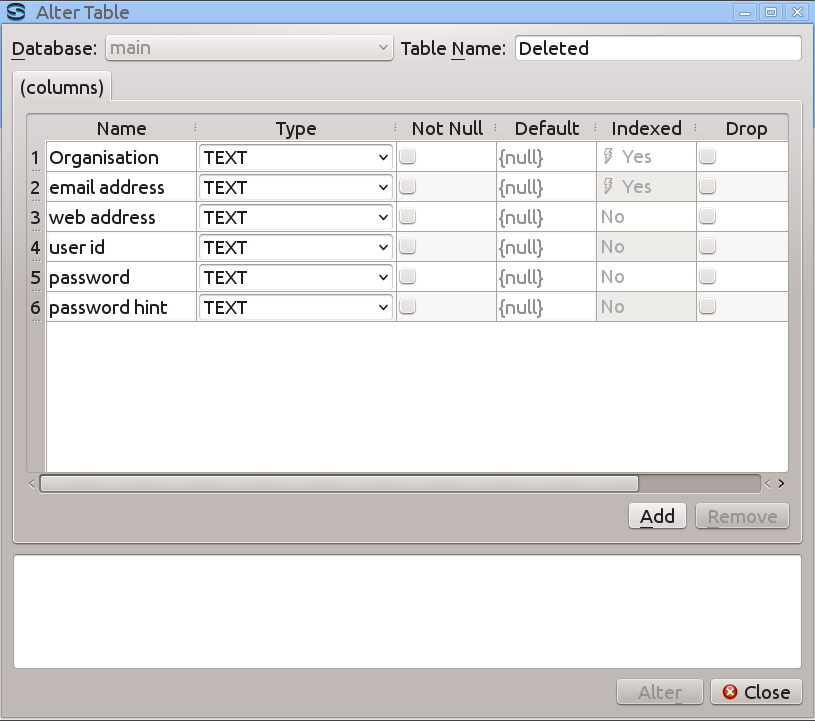
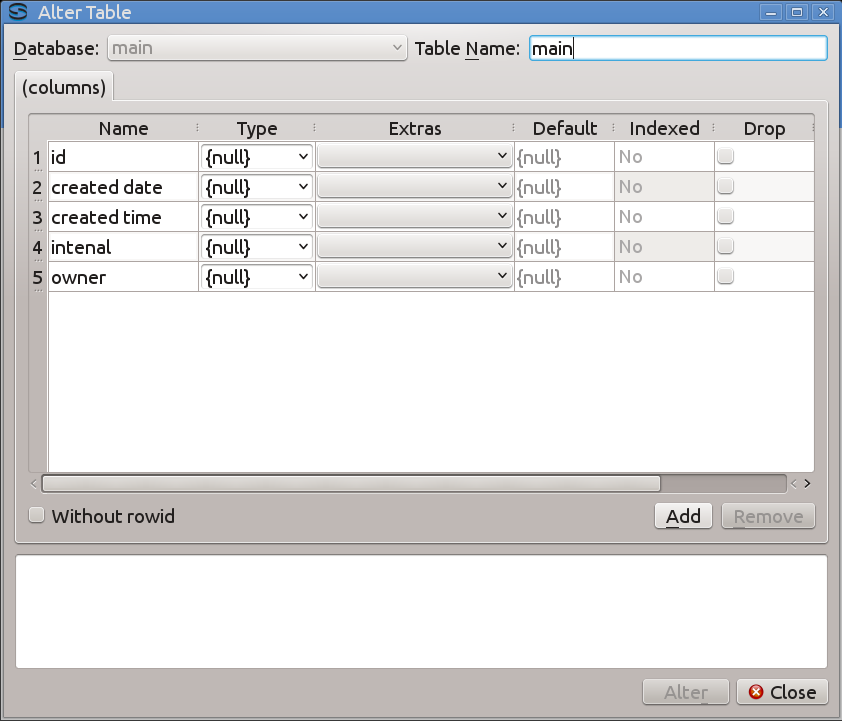
Allow creation and altering of WITHOUT ROWID tables

diff --git a/Sqliteman/sqliteman/doc/en/ch07s02.html b/Sqliteman/sqliteman/doc/en/ch07s02.html
@@ -1,7 +1,62 @@
-<html><head><meta http-equiv="Content-Type" content="text/html; charset=UTF-8"><title>Create Table</title><link rel="stylesheet" href="kde-default.css" type="text/css"><meta name="generator" content="DocBook XSL Stylesheets V1.67.2"><meta name="keywords" content="Sqliteman, SQL, Sqlite, development, database"><link rel="start" href="index.html" title="The Sqliteman Handbook"><link rel="up" href="ch07.html" title="Chapter 7. Features and Dialogs"><link rel="prev" href="ch07s01.html" title="Auto Commit and Transaction Pending modes"><link rel="next" href="ch07s03.html" title="Alter Table"></head><body bgcolor="white" text="black" link="#0000FF" vlink="#840084" alink="#0000FF"><div class="navheader"><table width="100%" summary="Navigation header"><tr><th colspan="3" align="center">Create Table</th></tr><tr><td width="20%" align="left"><a accesskey="p" href="ch07s01.html">Prev</a> </td><th width="60%" align="center">Auto Commit and Transaction Pending modes</th><td width="20%" align="right"> <a accesskey="n" href="ch07s03.html">Next</a></td></tr></table><hr></div><div class="sect1" lang="en"><div class="titlepage"><div><div><h2 class="title" style="clear: both"><a name="createTable"></a>Create Table</h2></div></div></div><p>The <a href="ch07s02.html#id2015101">(columns)</a>, <a href="ch07s02.html#id2015102">AS query</a>, and <a href="ch07s02.html#id2015103">EDIT SQL</a> tabs allow you to create a table in various ways.</p><p>
-          </p><div class="screenshot"><div class="mediaobject"><img src="createTable.png" alt="Create table dialog"></div></div><p>
-          </p><div class="variablelist"><dl><dt><span class="term">Database</span></dt><dd><p>A combo box with databases attached. Select one and the table will be created in this schema.</p></dd><dt><span class="term">Table Name</span></dt><dd><p>Name of new table. It must be nonempty.</p></dd><dt><span class="term"><a name="id2015101"></a>(columns) tab</span></dt><dd><p>Use "Add" and "Remove" buttons to create columns for this table. Every column must have a table-unique name, chosen data type (prepared combo box), optional extra constraint (nothing, NOT NULL, PRIMARY KEY, PRIMARY KEY NOT NULL, AUTOINCREMENT [which implies PRIMARY KEY], or AUTOINCREMENT NOT NULL), and optional DEFAULT value. If you want to use your own non-standard data type, you can type it into the combo box. Default values must be supplied as they would be in a CREATE TABLE statement: expressions must be enclosed in (), text literals which don't look like identifiers or which match reserved words must be quoted. Numbers do not need to be quoted, and will be treated as text literals if they are.
-          </p><div class="important" style="margin-left: 0.5in; margin-right: 0.5in;"><h3 class="title">Important</h3><p>Consult Sqlite documentation for data type, NOT NULL, and DEFAULT handling specials, please.</p></div></dd><dt><span class="term"><a name="id2015102"></a>AS query tab</span></dt><dd><p>This opens the query builder where you can create a table using a CREATE TABLE name AS SELECT ... statement.</p></dd><dt><span class="term"><a name="id2015103"></a>Edit SQL tab</span></dt><dd><p>You can write any SQL CREATE TABLE statement here. The first time you open this tab, it will make a CREATE TABLE statement from the information in the previously open tab. Every subsequent time you open this tab you will be asked if you want to keep the existing SQL or make it from the information in the previously open tab again.</p></dd><dt><span class="term">Create</span></dt><dd><p>Press this button to create the table. It is disabled when the <a href="ch07s02.html#id2015101">(columns)</a> tab is selected unless the new table and all columns have nonempty names, and disabled when the <a href="ch07s02.html#id2015102">AS query</a> tab is selected unless the new table has a nonempty name. The result of this operation is shown in the text area below, which will expand if it needs to contain a long error message.</p></dd></dl></div></div><div class="navfooter"><hr><table width="100%" summary="Navigation footer"><tr>
+<html><head>
+	<meta http-equiv="Content-Type" content="text/html; charset=UTF-8">
+	<title>Create Table</title>
+	<link rel="stylesheet" href="kde-default.css" type="text/css">
+	<meta name="generator" content="DocBook XSL Stylesheets V1.67.2">
+	<meta name="keywords" content="Sqliteman, SQL, Sqlite, development, database">
+	<link rel="start" href="index.html" title="The Sqliteman Handbook">
+	<link rel="up" href="ch07.html" title="Chapter 7. Features and Dialogs">
+	<link rel="prev" href="ch07s01.html" title="Auto Commit and Transaction Pending modes">
+	<link rel="next" href="ch07s03.html" title="Alter Table">
+</head>
+<body bgcolor="white" text="black" link="#0000FF" vlink="#840084" alink="#0000FF">
+	<div class="navheader">
+		<table width="100%" summary="Navigation header">
+			<tr><th colspan="3" align="center">Create Table</th></tr>
+			<tr><td width="20%" align="left">
+					<a accesskey="p" href="ch07s01.html">Prev</a> </td>
+					<th width="60%" align="center">Auto Commit and Transaction Pending modes</th>
+				<td width="20%" align="right"> <a accesskey="n" href="ch07s03.html">Next</a></td></tr>
+		</table>
+	<hr></div>
+	<div class="sect1" lang="en">
+		<div class="titlepage">
+			<div>
+				<h2 class="title" style="clear: both"><a name="createTable"></a>Create Table</h2>
+			</div>
+		</div>
+		<p>The <a href="ch07s02.html#id2015101">(columns)</a>, <a href="ch07s02.html#id2015102">AS query</a>, and <a href="ch07s02.html#id2015103">EDIT SQL</a> tabs allow you to create a table in various ways.</p>
+		<p></p><div class="screenshot">
+			<div class="mediaobject">
+				<img src="createTable.png" alt="Create table dialog">
+				</div>
+			</div>
+		<p></p>
+		<div class="variablelist">
+			<dl><dt><span class="term">Database</span></dt>
+			<dd>
+				<p>A combo box with databases attached. Select one and the table will be created in this schema.</p>
+			</dd>
+			<dt><span class="term"></span></dt>
+			<dd><p>Name of new table. It must be nonempty.</p></dd>
+			<dt><span class="term"><a name="id2015101">(columns) tab</a></span></dt>
+			<dd>
+				<p>Use "Add" and "Remove" buttons to create columns for this table. Every column must have a table-unique name, chosen data type (prepared combo box), optional extra constraint (nothing, NOT NULL, PRIMARY KEY [implies NOT NULL], or AUTOINCREMENT [implies PRIMARY KEY and NOT NULL]), and optional DEFAULT value. If you want to use your own non-standard data type, you can type it into the combo box. Default values must be supplied as they would be in a CREATE TABLE statement: expressions must be enclosed in (), text literals which don't look like identifiers or which match reserved words must be quoted. Numbers do not need to be quoted, and will be treated as text literals if they are.</p>
+				<div class="important" style="margin-left: 0.5in; margin-right: 0.5in;"><h3 class="title">Important</h3>
+					<p>Consult Sqlite documentation for data type, NOT NULL, and DEFAULT handling specials, please.</p>
+				</div>
+			</dd>
+			<dt><span class="term"><a name="id2015102">AS query tab</a></span></dt>
+			<dd>
+				<p>This opens the query builder where you can create a table using a CREATE TABLE name AS SELECT ... statement.</p>
+			</dd>
+<dt><span class="term"><a name="id2015103">Edit SQL tab</a></span></dt>
+<dd><p>You can write any SQL CREATE TABLE statement here. The first time you open this tab, it will make a CREATE TABLE statement from the information in the previously open tab. Every subsequent time you open this tab you will be asked if you want to keep the existing SQL or make it from the information in the previously open tab again.</p></dd>
+<dt><span class="term">Without rowid</span></dt><dd></dd>
+<dd><p>Check this box to create a WITHOUT ROWID table. It must have at least one PRIMARY KEY and no AUTOINCREMENT.</p></dd>
+<dt><span class="term">Create</span></dt>
+<dd><p>Press this button to create the table. When the <a href="ch07s02.html#id2015101">(columns)</a> tab is selected, the Create button is only enabled when the new table name is nonempty, and all column names are nonempty, and if there is an AUTOINCREMENT column its type is INTEGER and no other column is a PRIMARY KEY, and if Without rowid is checked there is at least one PRIMARY KEY column. When the <a href="ch07s02.html#id2015102">AS query</a> tab is selected, the Create button is only enabled if the new table has a nonempty name. The result of this operation is shown in the text area below, which will expand if it needs to contain a long error message.</p></dd></dl></div></div>
+<div class="navfooter"><hr><table width="100%" summary="Navigation footer"><tr>
           <td width="40%" align="left"><a accesskey="p" href="ch07s01.html">Prev</a> </td>
           <td width="20%" align="center"><a accesskey="u" href="ch07.html">Up</a>
           </td><td width="40%" align="right"> <a accesskey="n" href="ch07s03.html">Next</a></td></tr>

diff --git a/Sqliteman/sqliteman/doc/en/ch08.html b/Sqliteman/sqliteman/doc/en/ch08.html
@@ -7,5 +7,5 @@
 <tr class="question"><td align="left" valign="top"><a name="id2528597"></a><a name="id2528600"></a><b>1.</b></td><td align="left" valign="top"><p>I'm getting: Query Error: SQL logic error or missing database</p></td></tr><tr class="answer"><td align="left" valign="top"><b></b></td><td align="left" valign="top"><p>You can get this error on some INSERT statement in the database with triggers. It's a bug in some versions of the Qt library toolkit. It should be fixed in the Qt 4.2.3 and later.</p></td></tr>
 <tr class="question"><td align="left" valign="top"><a name="id2528615"></a><a name="id2528617"></a><b>2.</b></td><td align="left" valign="top"><p>I cannot update a value in the data grid</p></td></tr><tr class="answer"><td align="left" valign="top"><b></b></td><td align="left" valign="top"><p>You cannot edit the data in a view or in a read-only database. If editing fails in a table in a writeable database, this may be a problem with older versions of the Qt library which send an empty string ('') to the database for fields that have a value of NULL and SQLite doesn't seem to like this. This has been fixed some time before Qt 4.8.6.</p></td></tr>
 <tr class="question"><td align="left" valign="top"><a name="id2528777"></a></a><b>3.</b></td><td align="left" valign="top"><p>Editing or deleting rows changes or deletes other rows</p></td></tr><tr class="answer"><td align="left" valign="top"><b></b></td><td align="left" valign="top"><p>This problem occurs if you put two or more rows with the exact same field contents into the database. The Qt library gets confused by this. <a href="http://bugreports.qt.io/browse/QTBUG-48448">The bug has been reported.</a></p></td></tr>
-<tr class="question"><td align="left" valign="top"><a name="id2528888"></a></a><b>4.</b></td><td align="left" valign="top"><p>I'm getting: Cannot recreate original index/trigger</p></td></tr><tr class="answer"><td align="left" valign="top"><b></b></td><td align="left" valign="top"><p>This problem occurs when altering a table if an index or a trigger references a column which has been renamed or deleted. It is a known bug in sqliteman but it isn't easy to fix: it may get fixed some time.</p></td></tr>
+<tr class="question"><td align="left" valign="top"><a name="id2528888"></a></a><b>4.</b></td><td align="left" valign="top"><p>I'm getting: Cannot recreate original index/trigger</p></td></tr><tr class="answer"><td align="left" valign="top"><b></b></td><td align="left" valign="top"><p>This problem occurs when altering a table if an index or a trigger references a column which has been renamed or deleted. It is a known bug in Sqliteman but it isn't easy to fix: it may get fixed some time.</p></td></tr>
 <tr class="question"><td align="left" valign="top"><a name="id2528999"></a></a><b>5.</b></td><td align="left" valign="top"><p>I'm getting: Error: No Fields to update</p></td></tr><tr class="answer"><td align="left" valign="top"><b></b></td><td align="left" valign="top"><p>This problem occurs if all fields have defaults which are CURRENT_TIMESTAMP, CURRENT_DATE, CURRENT_TIME, or expressions. The Qt library can't insert a record with this structure. For the workaround see <a href="ch07s12.html#insert">here</a>. <a href="http://bugreports.qt.io/browse/QTBUG-48447">This has been reported as a bug,</a> but Qt say it isn't.</p></td></tbody></table></div></div></div><div class="navfooter"><hr><table width="100%" summary="Navigation footer"><tr><td width="40%" align="left"><a accesskey="p" href="ch07s13.html">Prev</a> </td><td width="20%" align="center"> </td><td width="40%" align="right"> <a accesskey="n" href="ch09.html">Next</a></td></tr><tr><td width="40%" align="left" valign="top">Export Data </td><td width="20%" align="center"><a accesskey="h" href="index.html">Contents</a></td><td width="40%" align="right" valign="top"> Chapter 9. Credits and License</td></tr></table></div></body></html>

diff --git a/Sqliteman/sqliteman/doc/en/ch07s09.html b/Sqliteman/sqliteman/doc/en/ch07s09.html
@@ -1,3 +1,3 @@
 <html><head><meta http-equiv="Content-Type" content="text/html; charset=UTF-8"><title>Attached Databases</title><link rel="stylesheet" href="kde-default.css" type="text/css"><meta name="generator" content="DocBook XSL Stylesheets V1.67.2"><meta name="keywords" content="Sqliteman, SQL, Sqlite, development, database"><link rel="start" href="index.html" title="The Sqliteman Handbook"><link rel="up" href="ch07.html" title="Chapter 7. Features and Dialogs"><link rel="prev" href="ch07s08.html" title="Constraint Triggers"><link rel="next" href="ch07s10.html" title="Schema Browser"></head><body bgcolor="white" text="black" link="#0000FF" vlink="#840084" alink="#0000FF"><div class="navheader"><table width="100%" summary="Navigation header"><tr><th colspan="3" align="center">Attached Databases</th></tr><tr><td width="20%" align="left"><a accesskey="p" href="ch07s08.html">Prev</a> </td><th width="60%" align="center">Chapter 7. Features and Dialogs</th><td width="20%" align="right"> <a accesskey="n" href="ch07s10.html">Next</a></td></tr></table><hr></div><div class="sect1" lang="en"><div class="titlepage"><div><div><h2 class="title" style="clear: both"><a name="attachDatabase"></a>Attached Databases</h2></div></div></div><p>You can add and remove another database files to the current database connection.
     Every attached database is identified by its unique name (prefix). The names 'main' and 'temp' refer to the main database and the database used for temporary tables. These cannot be detached.
-    You should access database objects with full prefixed naming convention:</p><p><span><strong class="command">SELECT * FROM newdb.foo_table;</strong></span></p><p>It is possible to open the same database with two different names: sqliteman cannot detect this because it cannot determine whether two different file names refer to the same file. If this occurs, sqliteman may behave unpredictably.</p><div class="important" style="margin-left: 0.5in; margin-right: 0.5in;"><h3 class="title">Important</h3><p>Consult <a href="http://www.sqlite.org/lang_attach.html" target="_top">Sqlite documentation</a>.</p></div></div><div class="navfooter"><hr><table width="100%" summary="Navigation footer"><tr><td width="40%" align="left"><a accesskey="p" href="ch07s08.html">Prev</a> </td><td width="20%" align="center"><a accesskey="u" href="ch07.html">Up</a></td><td width="40%" align="right"> <a accesskey="n" href="ch07s10.html">Next</a></td></tr><tr><td width="40%" align="left" valign="top">Constraint Triggers </td><td width="20%" align="center"><a accesskey="h" href="index.html">Contents</a></td><td width="40%" align="right" valign="top"> Schema Browser</td></tr></table></div></body></html>
+    You should access database objects with full prefixed naming convention:</p><p><span><strong class="command">SELECT * FROM newdb.foo_table;</strong></span></p><p>It is possible to open the same database with two different names: Sqliteman cannot detect this because it cannot determine whether two different file names refer to the same file. If this occurs, Sqliteman may behave unpredictably.</p><div class="important" style="margin-left: 0.5in; margin-right: 0.5in;"><h3 class="title">Important</h3><p>Consult <a href="http://www.sqlite.org/lang_attach.html" target="_top">Sqlite documentation</a>.</p></div></div><div class="navfooter"><hr><table width="100%" summary="Navigation footer"><tr><td width="40%" align="left"><a accesskey="p" href="ch07s08.html">Prev</a> </td><td width="20%" align="center"><a accesskey="u" href="ch07.html">Up</a></td><td width="40%" align="right"> <a accesskey="n" href="ch07s10.html">Next</a></td></tr><tr><td width="40%" align="left" valign="top">Constraint Triggers </td><td width="20%" align="center"><a accesskey="h" href="index.html">Contents</a></td><td width="40%" align="right" valign="top"> Schema Browser</td></tr></table></div></body></html>

diff --git a/Sqliteman/sqliteman/doc/en/ch07s03.html b/Sqliteman/sqliteman/doc/en/ch07s03.html
@@ -4,7 +4,7 @@
     <span class="application">Sqliteman</span> provides a more general ALTER TABLE by creating a new table, copying the data, and dropping the old table. If necessary the old table is renamed out of the way first. However <span class="application">Sqliteman</span> has limited understanding of the many possible table structures. In this version some information is lost if alterations to a table do anything other than renaming it. In that case columns can be added or deleted, and column types, default values, NOT NULL constraints, and PRIMARY KEY and AUTOINCREMENT constraints can be modified or preserved. Indexes and triggers are preserved (but cannot be modified) as long as the columns to which they refer are not deleted or renamed. Constraint names, conflict clauses, foreign key clauses, DESC tags, WITHOUT ROWID conditions, UNIQUE constraints, CHECK constraints, and COLLATE constraints are all lost. These can be preserved by manually renaming the old table, doing "Describe Table", copying and pasting the description into the SQL editor, modifying it as required and creating a new table, copying the data, and then dropping the old table.</p><p>In any case views and foreign key constraints referring to the altered table will be left dangling if the table is renamed or the columns referred to are renamed or deleted. This is behaviour of sqlite itself and not specific to <span class="application">Sqliteman</span>.
     </p></div><p>In this dialog you can <span class="guibutton">Add</span> and <span class="guibutton">Remove</span> table
   columns and set the options for new ones.</p><p>
-  The Alter button is enabled only if at least something has changed from the original table definition, and the table name is nonempty, and all column names are nonempty, and if there is an AUTOINCREMENT column, its type is INTEGER and no other column is a PRIMARY KEY.</p><p>
+  The Alter button is enabled only when at least something has changed from the original table definition, and the table name is nonempty, and all column names are nonempty, and if there is an AUTOINCREMENT column its type is INTEGER and no other column is a PRIMARY KEY, and if Without rowid is checked there is at least one PRIMARY KEY column.</p><p>
           </p><div class="screenshot"><div class="mediaobject"><img src="alterTable.png" alt="Alter table dialog"></div></div><p>
           </p><div class="sect2" lang="en"><div class="titlepage"><div><div><h3 class="title"><a name="id2526118"></a>Steps to alter table</h3></div></div></div><div class="orderedlist"><ol type="1"><li><p>Remember triggers and indexes from the original table</p></li><li><p>Rename the original table with temporary name if it is a case-insensitive match for the new name</p></li><li><p>Create new table with new name containing new column structure</p></li><li><p>Perform INSERT INTO new table SELECT FROM (possibly renamed) old table</p></li><li><p>Drop old table</p></li><li><p>Try to recreate original indexes and triggers</p></li></ol></div><p>When there is no change other than the name, only the rename
     is performed.</p><p>A sample log output from add one column and remove on too in one batch.

diff --git a/Sqliteman/sqliteman/altertabledialog.cpp b/Sqliteman/sqliteman/altertabledialog.cpp
@@ -21,6 +21,7 @@ for which a new license (GPL+exception) is in place.
 #include <QSettings>
 
 #include "altertabledialog.h"
+#include "sqlparser.h"
 #include "utils.h"
 
 
@@ -67,6 +68,8 @@ AlterTableDialog::AlterTableDialog(LiteManWindow * parent,
 			this, SLOT(cellClicked(int,int)));
 	connect(ui.nameEdit, SIGNAL(textEdited(const QString&)),
 			this, SLOT(checkChanges()));
+	connect(ui.withoutRowid, SIGNAL(toggled(bool)),
+			this, SLOT(checkChanges()));
 
 	resetStructure();
 }
@@ -86,14 +89,15 @@ void AlterTableDialog::resetStructure()
 	}
 
 	// Initialize fields
-	m_fields = Database::tableFields(m_item->text(0), m_item->text(1));
+	SqlParser parsed = Database::parseTable(m_item->text(0), m_item->text(1));
+	m_fields = parsed.m_fields;
 	ui.columnTable->clearContents();
 	ui.columnTable->setRowCount(0);
 	for (int i = 0; i < m_fields.size(); i++)
 	{
-		int x = m_fields[i].isNotNull ? 1 : 0;
-		x += m_fields[i].isAutoIncrement ? 4 :
-				(m_fields[i].isPartOfPrimaryKey ? 2 : 0);
+		int x = m_fields[i].isAutoIncrement ? 3
+				: ( m_fields[i].isPartOfPrimaryKey ? 2
+					: (m_fields[i].isNotNull ? 1 : 0));
 
 		TableEditorDialog::addField(m_fields[i].name, m_fields[i].type, x,
 									SqlParser::defaultToken(m_fields[i]));
@@ -115,6 +119,8 @@ void AlterTableDialog::resetStructure()
 	}
 
 	m_keptColumns.clear();
+	m_hadRowid = parsed.m_hasRowid;
+	ui.withoutRowid->setChecked(!m_hadRowid);
 
 	checkChanges();
 }
@@ -493,6 +499,7 @@ void AlterTableDialog::checkChanges()
 	m_keptColumns.clear();
 	QString newName(ui.nameEdit->text().trimmed());
 	m_altered = newName != m_item->text(0);
+	m_altered |= m_hadRowid == ui.withoutRowid->isChecked();
 	bool ok = checkOk(newName); // side-effect on m_altered
 	m_alterButton->setEnabled(m_altered && ok);
 }

diff --git a/Sqliteman/sqliteman/tableeditordialog.cpp b/Sqliteman/sqliteman/tableeditordialog.cpp
@@ -88,8 +88,7 @@ void TableEditorDialog::addField(QString oldName, QString oldType,
 
 	QComboBox * extraBox = new QComboBox(this);
 	QStringList extras;
-	extras << "" << "NOT NULL" << "PRIMARY KEY" << "PRIMARY KEY NOT NULL"
-		   << "AUTOINCREMENT" << "AUTOINCREMENT NOT NULL";
+	extras << "" << "NOT NULL" << "PRIMARY KEY" << "AUTOINCREMENT";
 	extraBox->addItems(extras);
 	extraBox->setCurrentIndex(x);
 	extraBox->setEditable(false);
@@ -107,6 +106,8 @@ void TableEditorDialog::addField(QString oldName, QString oldType,
 	connect(defval, SIGNAL(textEdited(const QString &)),
 			this, SLOT(checkChanges()));
 	ui.columnTable->setCellWidget(rc, 3, defval);
+	ui.columnTable->resizeColumnToContents(1);
+	ui.columnTable->resizeColumnToContents(2);
 }
 
 QString TableEditorDialog::getFullName(QString tableOrView)
@@ -174,8 +175,12 @@ QString TableEditorDialog::getSQLfromGUI()
 		sql += Utils::quote(primaryKeys);
 		sql += " )";
 	}
-	//FIXME check for WITHOUT ROWID here
-	sql += "\n);";
+	sql += "\n)";
+	if (ui.withoutRowid->isChecked())
+	{
+		sql += " WITHOUT ROWID ";
+	}
+	sql += ";";
 	return sql;
 }
 
@@ -245,8 +250,13 @@ bool TableEditorDialog::checkOk(QString newName)
 			++pkCount;
 		}
 	}
-	if (autoSeen && (pkCount > 0)) { ok = false; }
-	if (colsLeft == 0) { ok = false; }
+	if (   (   (ui.withoutRowid->isChecked())
+			&& ((pkCount == 0) || autoSeen))
+		|| (autoSeen && (pkCount > 0))
+		|| (colsLeft == 0))
+	{
+		ok = false;
+	}
 	return ok;
 }
 

diff --git a/Sqliteman/sqliteman/database.cpp b/Sqliteman/sqliteman/database.cpp
@@ -56,7 +56,7 @@ DbAttach Database::getDatabases()
 	return ret;
 }
 
-QList<FieldInfo> Database::tableFields(const QString & table, const QString & schema)
+SqlParser Database::parseTable(const QString & table, const QString & schema)
 {
 	// Build a query string to SELECT the CREATE statement from sqlite_master
 	QString createSQL = QString("SELECT sql FROM ")
@@ -107,9 +107,13 @@ QList<FieldInfo> Database::tableFields(const QString & table, const QString & sc
 	}
 #endif
 
-	return parsed.m_fields;
+	return parsed;
 }
 
+QList<FieldInfo> Database::tableFields(const QString & table, const QString & schema)
+{
+	return parseTable(table, schema).m_fields;
+}
 QStringList Database::indexFields(const QString & index, const QString &schema)
 {
 	QString sql = QString("PRAGMA ")

diff --git a/Sqliteman/sqliteman/createtabledialog.cpp b/Sqliteman/sqliteman/createtabledialog.cpp
@@ -24,6 +24,7 @@ CreateTableDialog::CreateTableDialog(LiteManWindow * parent,
 	updated = false;
 	m_dirty = false;
 	ui.removeButton->setEnabled(false); // Disable row removal
+	ui.withoutRowid->setChecked(false);
 	setWindowTitle(tr("Create Table"));
 
 	if (item)
@@ -45,6 +46,8 @@ CreateTableDialog::CreateTableDialog(LiteManWindow * parent,
 	connect(m_createButton, SIGNAL(clicked(bool)),
 			this, SLOT(createButton_clicked()));
 	connect(ui.nameEdit, SIGNAL(textEdited(const QString&)),
+			this, SLOT(checkChanges()));
+	connect(ui.withoutRowid, SIGNAL(toggled(bool)),
 			this, SLOT(checkChanges()));
 
 	ui.textEdit->setText("");

diff --git a/Sqliteman/sqliteman/database.h b/Sqliteman/sqliteman/database.h
@@ -118,7 +118,16 @@ class Database
 		*/
 		static QList<FieldInfo> tableFields(const QString & table,
 											const QString & schema);
-		
+
+		/*!
+		@brief Returns parsed info for a table
+		@param table The table to retreive the fields from
+		\param schema a name of the DB schema
+		@return an SqlParser
+		*/
+		static SqlParser parseTable(const QString & table,
+									const QString & schema);
+
 		//! \brief Returns the list of columns in given index
 		static QStringList indexFields(const QString & index, const QString &schema);
 		

diff --git a/Sqliteman/sqliteman/altertabledialog.h b/Sqliteman/sqliteman/altertabledialog.h
@@ -49,6 +49,7 @@ class AlterTableDialog : public TableEditorDialog
 		QPushButton * m_alterButton;
 		
 		QList<FieldInfo> m_fields;
+		bool m_hadRowid;
 
 		//! \brief Fill the GUI with table structure.
 		void resetStructure();
